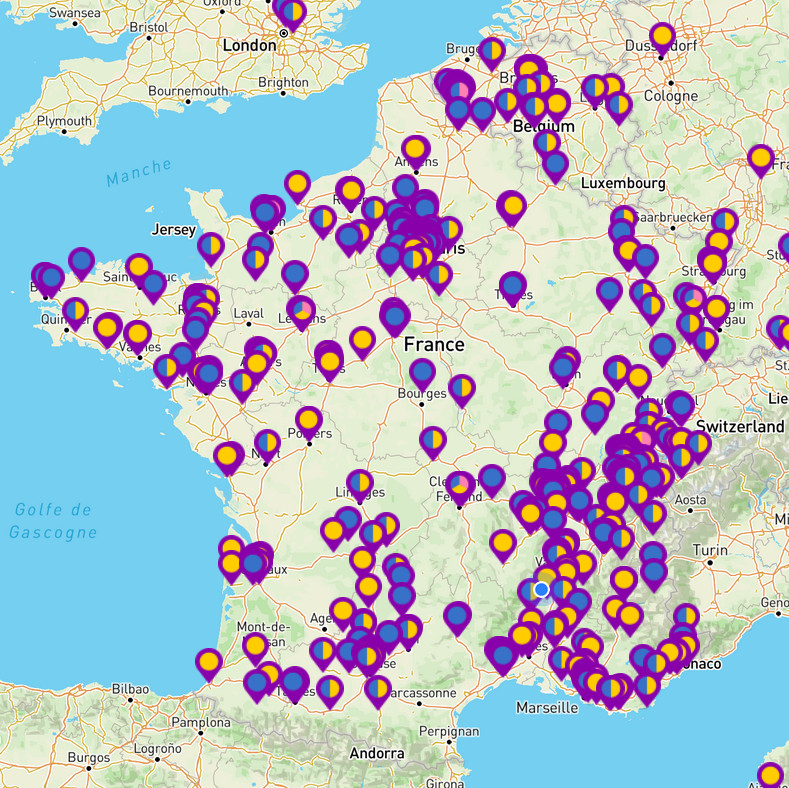
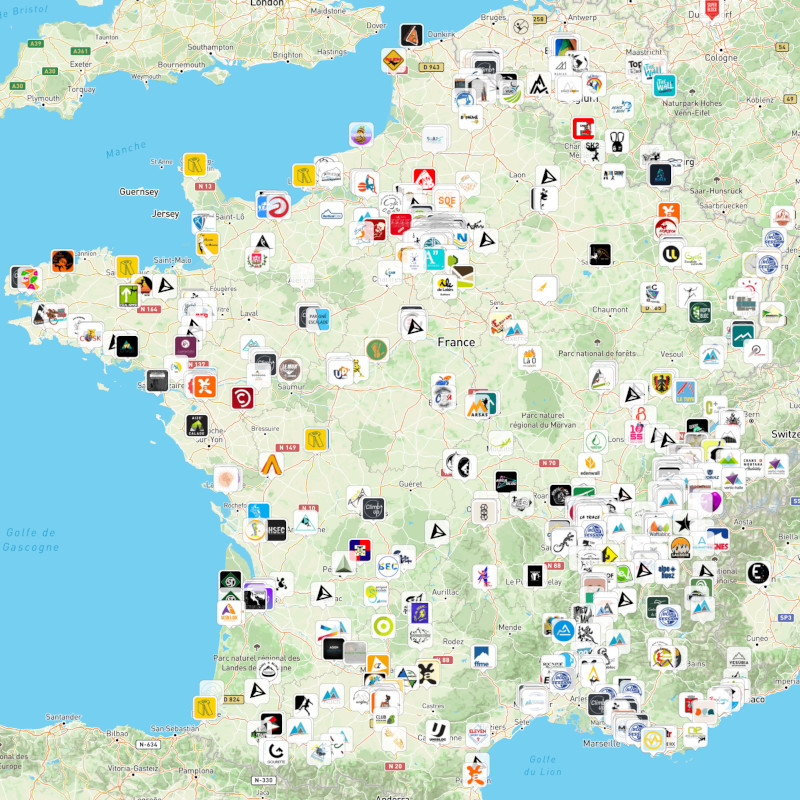
Ajustement dans sur la carte des salles : mise à jour visuel des icones, on customise le cluster de marker

diff --git a/mixins/MapMarkerHelpers.js b/mixins/MapMarkerHelpers.js
@@ -197,15 +197,16 @@ export const MapMarkerHelpers = {
         popupAnchor: [0, 9],
         className: 'gym-marker',
         html: `
-<svg
-   width="38"
-   height="44.068954"
-   viewBox="0 0 38 44.068956"
-   xmlns="http://www.w3.org/2000/svg">
+<svg width="38" height="44.068954" viewBox="0 0 38 44.068956" xmlns="http://www.w3.org/2000/svg">
+  <radialGradient id="indoorGradient" cx="0.5" cy="1" r="1" >
+    <stop stop-color="#d53a9d" offset="0" stop-opacity="1" />
+    <stop stop-color="#743ad5" offset="1" stop-opacity="1" />
+  </radialGradient>
   <g transform="translate(-1.0948906e-7,-2.9655236)">
     <path
-       style="fill:rgba(255,255,255,0.8);stroke:rgba(0,0,0,0.25);stroke-width:0.6899;stroke-linejoin:round;"
-       d="m 6.8977131,3.3104736 c -3.6302279,0 -6.552763,2.8929521 -6.552763,6.4868016 V 34.133054 c 0,3.593849 2.9225351,6.48716 6.552763,6.48716 H 13.478997 L 19,46.689543 24.521003,40.620214 h 6.581284 c 3.630235,0 6.552763,-2.893311 6.552763,-6.48716 V 9.7972752 c 0,-3.5938495 -2.922528,-6.4868016 -6.552763,-6.4868016 z" />
+       style="fill:rgb(255,255,255);stroke:url(#indoorGradient);stroke-width:1.5;stroke-linejoin:round;"
+       d="m 6.8977131,3.3104736 c -3.6302279,0 -6.552763,2.8929521 -6.552763,6.4868016 V 34.133054 c 0,3.593849 2.9225351,6.48716 6.552763,6.48716 H 13.478997 L 19,46.689543 24.521003,40.620214 h 6.581284 c 3.630235,0 6.552763,-2.893311 6.552763,-6.48716 V 9.7972752 c 0,-3.5938495 -2.922528,-6.4868016 -6.552763,-6.4868016 z"
+    />
      <image
        width="54.080173"
        height="54.080173"
@@ -213,7 +214,7 @@ export const MapMarkerHelpers = {
        xlink:href="${src}"
        x="151.27559"
        y="308.06467"
-       clip-path="inset(0% round 8px)"
+       clip-path="inset(0% round 9px)"
        transform="matrix(0.59171408,0,0,0.59171408,-86.511894,-176.32068)"
      />
   </g>

diff --git a/components/maps/LeafletMap.vue b/components/maps/LeafletMap.vue
@@ -2,7 +2,7 @@
   <client-only>
     <div
       class="leaflet-map"
-      :class="options.rounded ? 'rounded-leaflet' : ''"
+      :class="additionalClass"
     >
       <div
         v-if="magicCard || cragMapFilter || gymMapFilter"
@@ -595,7 +595,7 @@
         <!-- GeoJson & Marker cluster if clustered -->
         <v-marker-cluster
           v-if="clusteredMarker"
-          :options="{ disableClusteringAtZoom: 12 }"
+          :options="{ disableClusteringAtZoom: 11, showCoverageOnHover: false }"
         >
           <l-geo-json
             :key="`cluster-geo-json-${rerenderGeoJsonKey}`"
@@ -1149,6 +1149,17 @@ export default {
       if (this.gymFilter.gym_type !== null) { return true }
       if (this.gymFilter.with_guide_book !== false) { return true }
       return false
+    },
+
+    additionalClass () {
+      const addClasses = []
+      if (this.mapStyle === 'indoor') {
+        addClasses.push('cluster-indoor')
+      }
+      if (this.options.rounded) {
+        addClasses.push('rounded-leaflet')
+      }
+      return addClasses.join(' ')
     }
   },
 
@@ -1654,6 +1665,22 @@ export default {
         animation-iteration-count: infinite;
         animation-direction: normal;
         animation-play-state: running;
+      }
+    }
+  }
+  &.cluster-indoor {
+    .marker-cluster {
+      &.marker-cluster-small {
+        background-color: rgba(116, 58, 213, 0.5);
+        div { background-color: rgba(116, 58, 213, 0.5); }
+      }
+      &.marker-cluster-medium {
+        background-color: rgb(164, 58, 185, 0.5);
+        div { background-color: rgb(164, 58, 185, 0.5); }
+      }
+      &.marker-cluster-large {
+        background-color: rgb(213, 58, 157, 0.5);
+        div { background-color: rgb(213, 58, 157, 0.5); }
       }
     }
   }

diff --git a/lang/fr-FR.js b/lang/fr-FR.js
@@ -549,7 +549,7 @@ export default {
             title: "Carte des salles d'escalade",
             explain: "Déplacez-vous librement sur la carte de toutes les salles d'escalade que nous avons.",
             filter: {
-              btnTile: 'Filter les salles',
+              btnTile: 'Filter la carte',
               styleLabel: 'Voie ? Bloc ? Fun ?',
               gymType: 'Club ? Salle privée ?',
               withGuideBook: 'Salle avec un topo'

diff --git a/lang/en-US.js b/lang/en-US.js
@@ -548,7 +548,7 @@ export default {
             title: 'Map of climbing gyms',
             explain: 'Move freely on the map of all the climbing gyms we have.',
             filter: {
-              btnTile: 'Filter climbing gym',
+              btnTile: 'Filter map',
               styleLabel: 'Sport climbing ? Boulder ? Fun ?',
               gymType: 'Club ? Private ?',
               withGuideBook: 'Gym with guide book'

diff --git a/pages/maps/gyms.vue b/pages/maps/gyms.vue
@@ -16,7 +16,7 @@
           :longitude-force="longitude"
           :zoom-force="zoom"
           :gym-map-filter="true"
-          :clustered="false"
+          :clustered="true"
           :filter-callback="getGeoJson"
         />
       </client-only>
